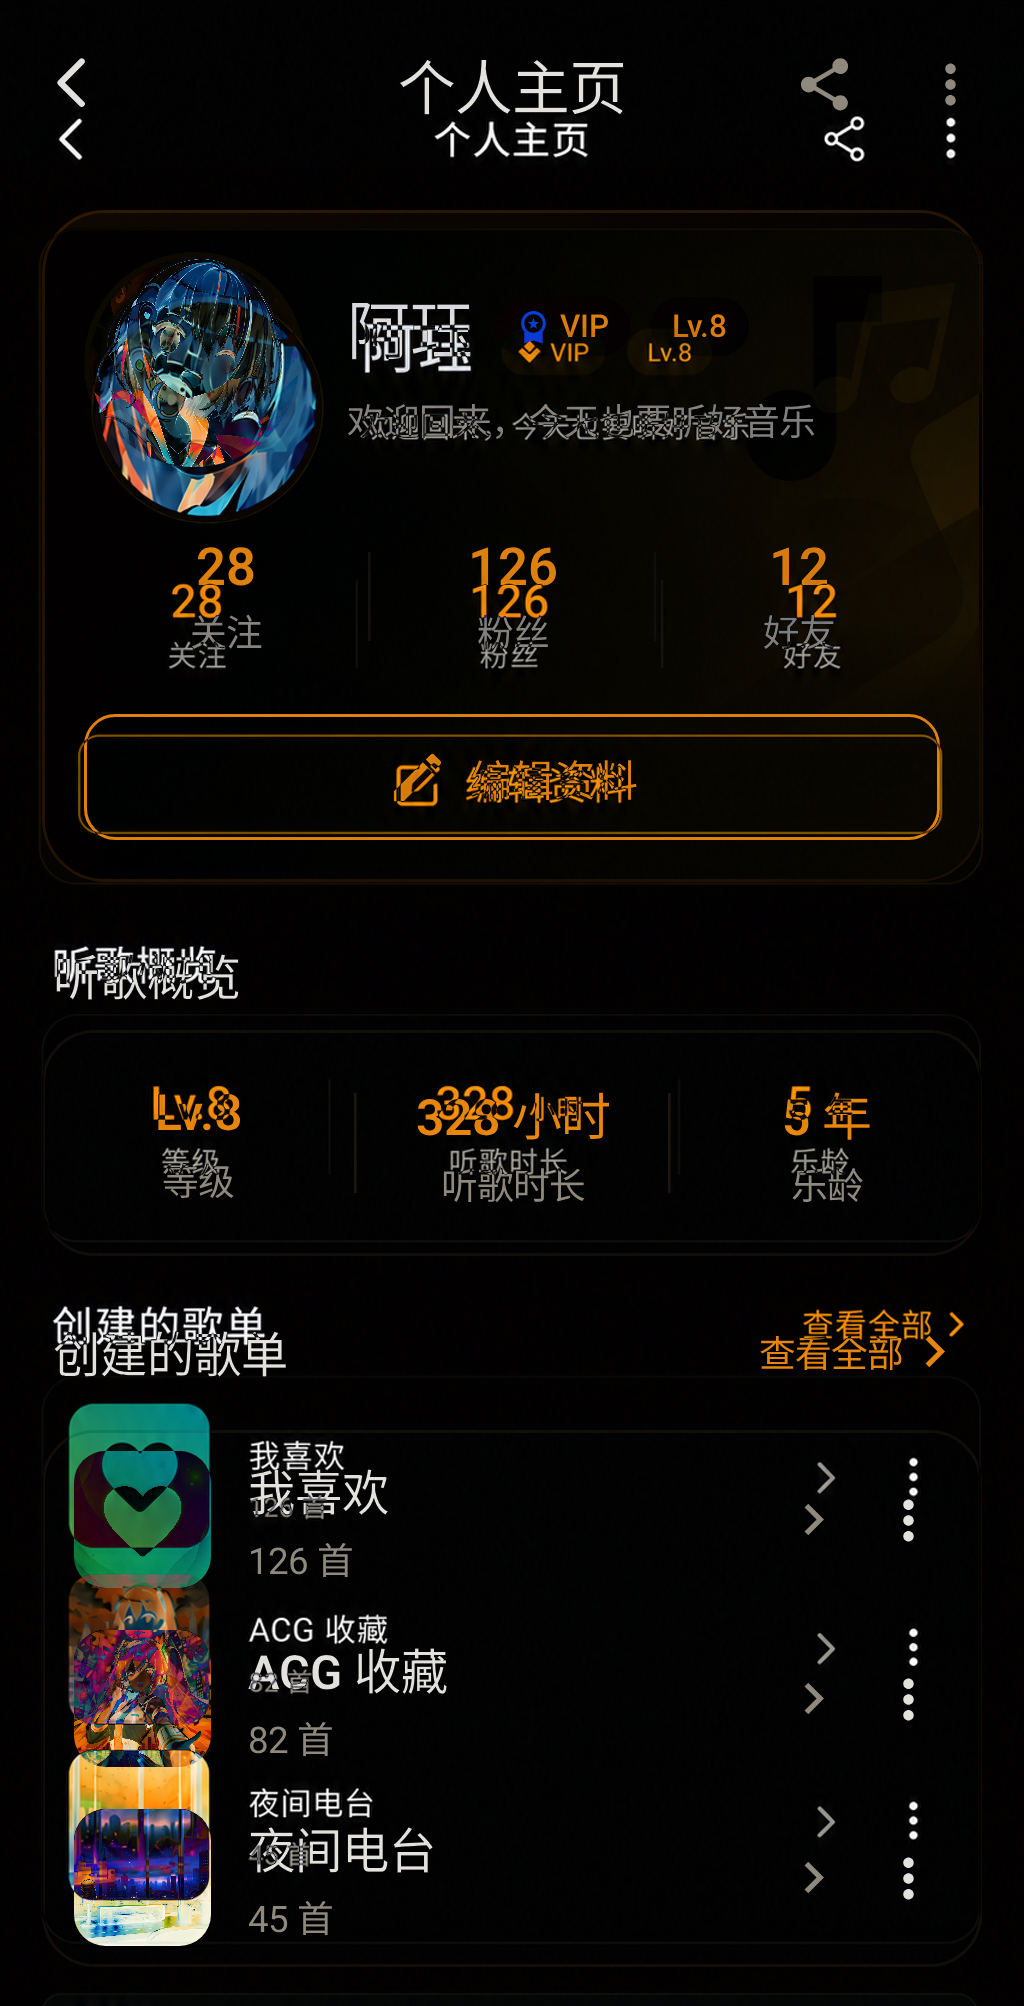
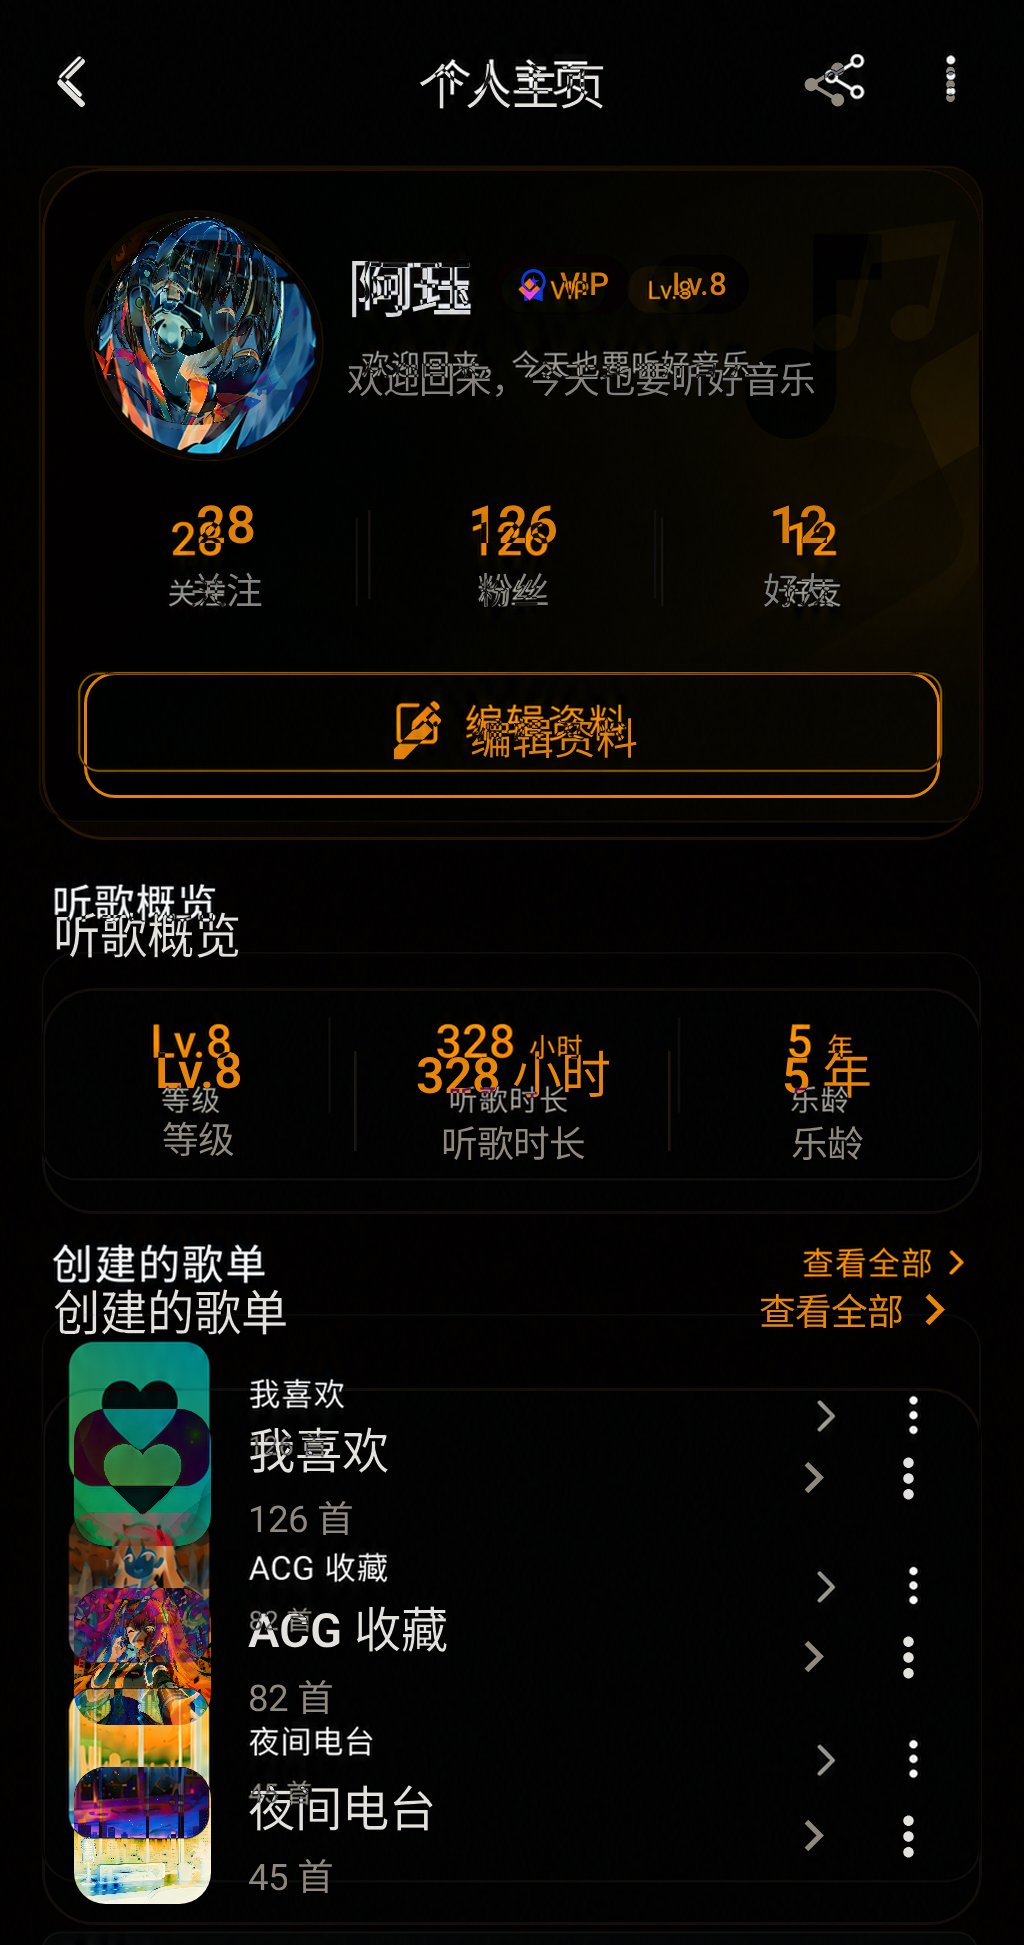
fix(designsystem): align standard toolbar

diff --git a/feature/profile/src/main/kotlin/cn/james/music/feature/profile/UserProfileScreen.kt b/feature/profile/src/main/kotlin/cn/james/music/feature/profile/UserProfileScreen.kt
@@ -63,6 +63,7 @@ import androidx.compose.ui.unit.dp
 import androidx.compose.ui.unit.sp
 import cn.james.music.core.designsystem.MoeKoeTheme
 import cn.james.music.core.designsystem.component.navigation.MoeStandardTopBar
+import cn.james.music.core.designsystem.component.navigation.MoeStandardTopBarAction
 
 @Composable
 internal fun UserProfileScreen(
@@ -88,12 +89,16 @@ internal fun UserProfileScreen(
                 navigationContentDescription = stringResource(R.string.profile_back),
                 onNavigateBack = onBack,
                 actions = {
-                    IconButton(onClick = onShare) {
-                        Icon(Icons.Default.Share, contentDescription = stringResource(R.string.profile_share))
-                    }
-                    IconButton(onClick = onMore) {
-                        Icon(Icons.Default.MoreVert, contentDescription = stringResource(R.string.profile_more))
-                    }
+                    MoeStandardTopBarAction(
+                        imageVector = Icons.Default.Share,
+                        contentDescription = stringResource(R.string.profile_share),
+                        onClick = onShare,
+                    )
+                    MoeStandardTopBarAction(
+                        imageVector = Icons.Default.MoreVert,
+                        contentDescription = stringResource(R.string.profile_more),
+                        onClick = onMore,
+                    )
                 },
             )
         },
@@ -194,7 +199,7 @@ private fun ProfileHero(
 ) {
     val largeText = LocalDensity.current.fontScale >= 1.3f
     Surface(
-        modifier = Modifier.fillMaxWidth().padding(start = 16.dp, top = 16.dp, end = 16.dp, bottom = 10.dp),
+        modifier = Modifier.fillMaxWidth().padding(start = 16.dp, end = 16.dp, bottom = 10.dp),
         shape = RoundedCornerShape(24.dp),
         color = Color.Transparent,
         border = BorderStroke(1.dp, MaterialTheme.colorScheme.primary.copy(alpha = 0.14f)),

diff --git a/feature/playlist/src/main/kotlin/cn/james/music/feature/playlist/PlaylistDetailScreen.kt b/feature/playlist/src/main/kotlin/cn/james/music/feature/playlist/PlaylistDetailScreen.kt
@@ -69,6 +69,7 @@ import cn.james.music.core.designsystem.MoeKoeTheme
 import cn.james.music.core.designsystem.component.MoeMediaBadge
 import cn.james.music.core.designsystem.component.MoeMediaBadgeTone
 import cn.james.music.core.designsystem.component.navigation.MoeStandardTopBar
+import cn.james.music.core.designsystem.component.navigation.MoeStandardTopBarAction
 
 @Composable
 internal fun PlaylistDetailScreen(
@@ -95,18 +96,16 @@ internal fun PlaylistDetailScreen(
                 navigationContentDescription = stringResource(R.string.playlist_detail_back),
                 onNavigateBack = onBack,
                 actions = {
-                    IconButton(onClick = onSearch) {
-                        Icon(
-                            Icons.Default.Search,
-                            contentDescription = stringResource(R.string.playlist_detail_search),
-                        )
-                    }
-                    IconButton(onClick = onMore) {
-                        Icon(
-                            Icons.Default.MoreVert,
-                            contentDescription = stringResource(R.string.playlist_detail_more),
-                        )
-                    }
+                    MoeStandardTopBarAction(
+                        imageVector = Icons.Default.Search,
+                        contentDescription = stringResource(R.string.playlist_detail_search),
+                        onClick = onSearch,
+                    )
+                    MoeStandardTopBarAction(
+                        imageVector = Icons.Default.MoreVert,
+                        contentDescription = stringResource(R.string.playlist_detail_more),
+                        onClick = onMore,
+                    )
                 },
             )
         },

diff --git a/core/designsystem/src/screenshotTest/kotlin/cn/james/music/core/designsystem/MoeKoeTopBarsScreenshotTest.kt b/core/designsystem/src/screenshotTest/kotlin/cn/james/music/core/designsystem/MoeKoeTopBarsScreenshotTest.kt
@@ -12,7 +12,6 @@ import androidx.compose.material.icons.Icons
 import androidx.compose.material.icons.filled.Close
 import androidx.compose.material.icons.filled.MoreVert
 import androidx.compose.material3.Icon
-import androidx.compose.material3.IconButton
 import androidx.compose.material3.MaterialTheme
 import androidx.compose.runtime.Composable
 import androidx.compose.runtime.CompositionLocalProvider
@@ -25,6 +24,7 @@ import androidx.compose.ui.unit.dp
 import cn.james.music.core.designsystem.component.navigation.MoeImmersiveTopBar
 import cn.james.music.core.designsystem.component.navigation.MoeNavigateBackIcon
 import cn.james.music.core.designsystem.component.navigation.MoeStandardTopBar
+import cn.james.music.core.designsystem.component.navigation.MoeStandardTopBarAction
 import com.android.tools.screenshot.PreviewTest
 
 @PreviewTest
@@ -67,12 +67,11 @@ fun MoeKoeTopBarsScreenshot() {
                     )
                 },
                 actions = {
-                    IconButton(onClick = {}) {
-                        Icon(
-                            imageVector = Icons.Default.MoreVert,
-                            contentDescription = "更多",
-                        )
-                    }
+                    MoeStandardTopBarAction(
+                        imageVector = Icons.Default.MoreVert,
+                        contentDescription = "更多",
+                        onClick = {},
+                    )
                 },
             )
         }

diff --git a/core/designsystem/src/main/kotlin/cn/james/music/core/designsystem/component/navigation/MoeTopBars.kt b/core/designsystem/src/main/kotlin/cn/james/music/core/designsystem/component/navigation/MoeTopBars.kt
@@ -136,7 +136,7 @@ fun MoeStandardTopBar(
                 text = title,
                 maxLines = 1,
                 overflow = TextOverflow.Ellipsis,
-                style = MaterialTheme.typography.titleLarge,
+                style = MaterialTheme.typography.titleMedium,
             )
         },
         navigationIcon = {
@@ -155,6 +155,26 @@ fun MoeStandardTopBar(
             ),
         modifier = modifier,
     )
+}
+
+/** A standard Toolbar action with the product's fixed visible size and touch target. */
+@Composable
+fun MoeStandardTopBarAction(
+    imageVector: ImageVector,
+    contentDescription: String,
+    onClick: () -> Unit,
+    modifier: Modifier = Modifier,
+) {
+    IconButton(
+        onClick = onClick,
+        modifier = modifier.size(MoeKoeTheme.dimensions.minimumTouchTarget),
+    ) {
+        Icon(
+            imageVector = imageVector,
+            contentDescription = contentDescription,
+            modifier = Modifier.size(MoeKoeTheme.dimensions.iconSupporting),
+        )
+    }
 }
 
 @Composable

diff --git a/feature/settings/src/main/kotlin/cn/james/music/feature/settings/SettingsScreen.kt b/feature/settings/src/main/kotlin/cn/james/music/feature/settings/SettingsScreen.kt
@@ -111,7 +111,7 @@ internal fun SettingsScreen(
         Box(Modifier.fillMaxSize().padding(contentPadding), contentAlignment = Alignment.TopCenter) {
             LazyColumn(
                 modifier = Modifier.fillMaxSize().widthIn(max = 720.dp),
-                contentPadding = PaddingValues(horizontal = 14.dp, vertical = 10.dp),
+                contentPadding = PaddingValues(start = 14.dp, end = 14.dp, bottom = 10.dp),
                 verticalArrangement = Arrangement.spacedBy(12.dp),
             ) {
                 item {

diff --git a/docs/DESIGN_SYSTEM.md b/docs/DESIGN_SYSTEM.md
@@ -110,8 +110,8 @@
 | --- | --- | --- | --- |
 | `headlineLarge` | `28sp / 36sp` | SemiBold | 页面主标题、登录主标题 |
 | `headlineMedium` | `24sp / 32sp` | SemiBold | 模块主标题 |
-| `titleLarge` | `22sp / 28sp` | SemiBold | 标准 Toolbar 标题、重要区块 |
-| `titleMedium` | `18sp / 26sp` | SemiBold | 卡片标题、Dialog 标题 |
+| `titleLarge` | `22sp / 28sp` | SemiBold | 重要区块 |
+| `titleMedium` | `18sp / 26sp` | SemiBold | 标准 Toolbar、卡片和 Dialog 标题 |
 | `titleSmall` | `16sp / 24sp` | SemiBold | 歌曲标题、主要列表标题 |
 | `bodyLarge` | `16sp / 24sp` | Regular | 输入内容、重要正文 |
 | `bodyMedium` | `14sp / 22sp` | Regular | 正文、歌手和说明文字 |
@@ -162,7 +162,7 @@
 
 ### Toolbar 变体
 
-1. 标准：以 `10-user-profile.png` 为基准。高度 `64dp`，不含系统状态栏；水平内容边距 `16dp`；标题使用单行 `titleLarge`，相对完整页面宽度几何居中，而不是跟随左侧内容起排。左侧与尾部操作均为 `24dp` 图标置于至少 `48dp` 语义触控区，不显示圆形底板、卡片外框或 Toolbar 整体阴影。
+1. 标准：以 `10-user-profile.png` 为基准。高度 `64dp`，不含系统状态栏；水平内容边距 `16dp`；标题使用单行 `titleMedium`（`18sp / 26sp`），相对完整页面宽度几何居中，而不是跟随左侧内容起排。共享 Chevron 使用自身已确认路径尺寸；尾部 Material 操作使用 `20dp` 可见图形，均置于至少 `48dp` 语义触控区，不显示圆形底板、卡片外框或 Toolbar 整体阴影。
 2. 滚动标准态：保持标准态几何与居中标题；内容滚动后切换为实体 `surface`，最多增加一条轻量底部分隔线，不改变图标容器、标题位置或 Toolbar 高度。
 3. 搜索：使用独立 `56dp` Toolbar，内部搜索框视觉高度 `40dp`、圆角约 `20dp`；左侧导航与右侧语音操作各占至少 `48dp` 触控区。搜索、清除图标使用独立紧凑槽位，图标背景不得填满输入框高度。搜索属于子页面，不进入底部导航，也不叠加第二个页面标题。
 4. 多选：左侧关闭，中间显示已选数量，尾部只保留当前流程需要的少量操作；只有删除等破坏性操作使用 Error 色。

diff --git a/docs/design/evidence/settings-2026-08-08.md b/docs/design/evidence/settings-2026-08-08.md
@@ -2,7 +2,7 @@
 
 - 确认稿：`docs/design/mockups/09-settings.png`
 - 实现截图：`feature/settings/src/screenshotTestDebug/reference/cn/james/music/feature/settings/SettingsScreenshotTestKt/SettingsLightScreenshot_Light_442d9280_0.png`
-- 比较范围：确认稿 `853 × 2172px` 先按宽度归一化为 `1024 × 2607px`，再裁取顶部 `1024 × 2216px` 与 `390 × 844dp` 实现首屏对照；完整长内容由 `SettingsLongContentScreenshot` 和真机滚动测试验收。
+- 比较范围：确认稿移除顶部 `52px` 系统安全区后按实现截图宽度归一化，再裁取同高首屏对照；完整长内容由 `SettingsLongContentScreenshot` 和真机滚动测试验收。
 
 ## 证据文件
 
@@ -13,7 +13,7 @@
 ## 结论
 
 - 外观、播放与音质、歌词、存储、其他五个分组及 14 个 Item 已完整恢复；分组宽度、圆角、标题、图标槽、分隔线、尾部值、Chevron 和 Switch 均按确认稿同画布复核。
-- 页面复用确认的全局居中 Toolbar。Item 使用一致的 `48dp` 最小触控高度且可随文字自然增高，长内容由单一 `LazyColumn` 滚动，没有按截图总高度压缩底部 Item。
+- 页面复用确认的全局居中 Toolbar：标题使用 `18sp / 26sp`，返回图标保持共享 Chevron 轮廓和 `48dp` 触控区；首个分组紧接 Toolbar。Item 使用一致的 `48dp` 最小触控高度且可随文字自然增高，长内容由单一 `LazyColumn` 滚动，没有按截图总高度压缩底部 Item。
 - Light、Dark、AMOLED、`1.5×`、`2.0×` 与 `1040dp` 完整长内容共 6 组截图基线已建立；大字体下文本和值未发生横向裁切。
 - 主题选择与关于 Dialog 保持真实交互；其余尚无消费者的设置只展示确认稿静态状态，不写入 DataStore、不展示假缓存容量，也不产生假成功反馈。
-- 保留的 P3 差异为确认的全局 Toolbar 尺寸、Material 图标笔画与平台字体栅格；统一最小触控高度相对静态稿增加了页面滚动长度，这是无障碍约束，不改变信息密度层级。
+- 保留的 P3 差异仅为 Material 图标笔画与平台字体栅格；统一最小触控高度相对静态稿增加了页面滚动长度，这是无障碍约束，不改变信息密度层级。

diff --git a/docs/design/evidence/user-profile-2026-08-08.md b/docs/design/evidence/user-profile-2026-08-08.md
@@ -2,7 +2,7 @@
 
 - 确认稿：`docs/design/mockups/10-user-profile.png`
 - 实现截图：`feature/profile/src/screenshotTestDebug/reference/cn/james/music/feature/profile/UserProfileScreenshotTestKt/UserProfileContentLightScreenshot_ContentLight_5bbd60bc_0.png`
-- 比较范围：确认稿顶部至应用级 MiniPlayer 上边界 `853 × 1672px`，按宽度归一化为实现截图 `1024 × 2006px`；MiniPlayer 与系统安全区由 App 壳负责，不重复画入 Feature 截图。
+- 比较范围：确认稿移除顶部 `52px` 系统安全区后，裁取至应用级 MiniPlayer 上边界并按宽度归一化，与实现截图顶部 `1024 × 1945px` 对照；MiniPlayer 与系统安全区由 App 壳负责，不重复画入 Feature 截图。
 
 ## 证据文件
 
@@ -13,7 +13,7 @@
 ## 结论
 
 - Toolbar、资料 Hero、头像与徽标、三项关系统计、编辑按钮、听歌概览、创建歌单标题及三行歌单的比例、顺序和首屏密度已在同一画布复核。
-- 页面复用已经确认的全局居中 Toolbar；共享组件尺寸优先于稿件中的平台字体栅格差异，返回、分享与更多均保留独立 `48dp` 触控区。
+- 页面复用已经确认的全局居中 Toolbar：标题使用 `18sp / 26sp`，分享与更多为 `20dp` 可见图标并保留独立 `48dp` 触控区；Hero 紧接 Toolbar，不叠加额外顶部留白。
 - Light、Dark、AMOLED、Loading、Empty、Error、`1.5×`、`2.0×` 共 8 组截图基线已建立；大字体时 Hero 与概览纵向重排，页面继续使用单一纵向滚动容器。
 - “我的”只上抛资料页事件，`:app` 注册类型安全子页面并负责返回栈、一级底栏与 MiniPlayer；`:feature:profile` 不反向依赖 `:feature:my`、数据层或播放层。
 - 当前计数、签名、时长和歌单仅是确认稿 UI fixture；分享、编辑、关系和歌单操作只保留事件端口，未伪装真实业务完成。

diff --git a/docs/reference-audits/18-settings-and-preferences.md b/docs/reference-audits/18-settings-and-preferences.md
@@ -66,6 +66,7 @@
 - 权威设计：[`../design/mockups/09-settings.png`](../design/mockups/09-settings.png)，已确认并于 2026-08-07 使用标准 Toolbar、登录输入框图标规范和长画布规则修订。首批仅裁取其真实能力分组，不改变 Item 视觉语言。
 - 正式基准文件实测为 `853 × 2172px`、简体中文、浅色、`1.0×` 字体；设计坐标按当前 Composable 内容宽度等比归一化，触控区仍满足最小 `48dp`，文字使用主题 `sp`，不按原图 px 硬编码。
 - Toolbar 固定在页面顶部并消费状态栏 Insets；使用 `MoeStandardTopBar`，高度、对称槽位、居中标题和返回图标由 Design System 所有。
+- 首个设置分组紧接 Toolbar，不叠加顶部 Content Padding；列表仅保留水平边距、分组间距和底部滚动留白。
 - 内容是单一 `LazyColumn`/纵向滚动所有者。分组宽度随 Compact 容器伸缩，Item 高度由内容和最小触控区决定，不固定整页高度，也不把长画布压缩到单屏。
 - Compact：单列；Medium/Expanded：仍保持居中单列并限制可读宽度，不擅自改双栏。横屏/短高度允许同一列表自然滚动。
 - `1.5×/2.0×` 字体时 Item 的标题与当前值允许纵向增高或换行；开关/箭头保持尾端对齐，不裁切文字。字体恢复后由布局自然复位，无独立滚动偏移规则。

diff --git a/docs/UI_COMPONENT_CATALOG.md b/docs/UI_COMPONENT_CATALOG.md
@@ -17,7 +17,7 @@
 | --- | --- | --- | --- | --- |
 | Theme / Token | 根包 | Stable | 全部页面 | 保持语义化，禁止页面覆盖全局 Density |
 | Navigation back icon | `component.navigation` | Stable | 标准 Toolbar、沉浸式 Toolbar、登录 Hero | 统一 SVG/Vector 路径和 RTL；外围按钮组合归各 Toolbar/页面 |
-| Standard TopBar | `component.navigation` | Stable | `10-user-profile`、`15-toolbar-navigation`、搜索和本地音乐 | 页面中心锚定标题；调用方只替换返回/关闭等可见导航图标，公共组件持有点击、`48dp` 触控区、颜色和 Insets |
+| Standard TopBar | `component.navigation` | Stable | `10-user-profile`、`15-toolbar-navigation`、设置、歌单详情和本地音乐 | 页面中心锚定 `18sp / 26sp` 标题；调用方只替换返回/关闭等可见导航图标，尾部图标通过 `MoeStandardTopBarAction` 固定 `20dp` 图形与 `48dp` 触控区，公共组件持有颜色和 Insets |
 | Immersive TopBar | `component.navigation` | Adopt | 登录、播放器、Hero 详情确认稿 | 页面接入时验证前景对比和 Insets |
 | Search / Selection TopBar | `component.navigation` | Adopt | 搜索、本地音乐多选 | 按各自语义建立窄 API |
 | Button | `component.action` | Adopt | 登录、搜索、本地音乐、我的、播放器 | 建立五类操作与 48/56dp 具名尺寸 |

diff --git a/docs/design/USER_PROFILE_LAYOUT_SPEC.md b/docs/design/USER_PROFILE_LAYOUT_SPEC.md
@@ -23,6 +23,7 @@
 ### 资料 Hero
 
 - 页面水平边距 `16dp`，Hero 占满可用宽度，圆角 `24dp`，使用低对比 Primary Container 渐变和细描边；不得用纯白无边界区域替代。
+- Hero 紧接标准 Toolbar，不额外增加顶部 Spacer；由 Toolbar 自身高度建立标题与内容的垂直节奏。
 - 标准字体下头像约 `84dp`，圆形裁切并有轻量描边；昵称、VIP、等级和签名形成右侧信息组。昵称优先保留，徽标允许换行或收紧间距。
 - 关注、粉丝、好友是三等分统计，中间使用低对比分隔线；数字为 Primary，说明为 On Surface Variant。整组是可点击语义，不用三个视觉卡片。
 - 编辑资料为 Hero 内全宽 Outlined 操作，`48dp` 高、圆角 `12dp`，使用 Material 编辑图标和 Primary 文字。
